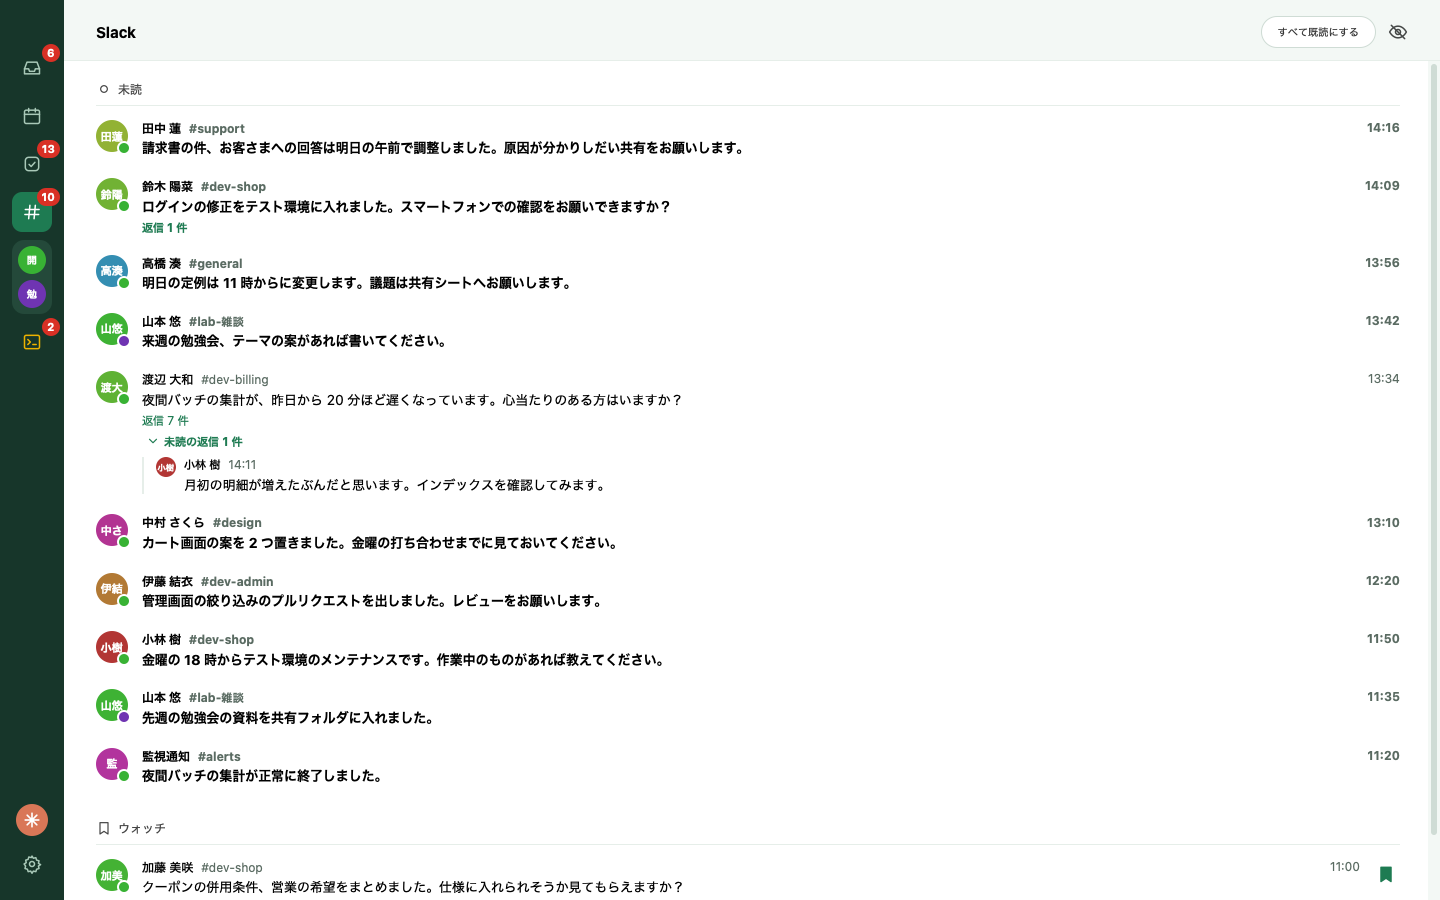
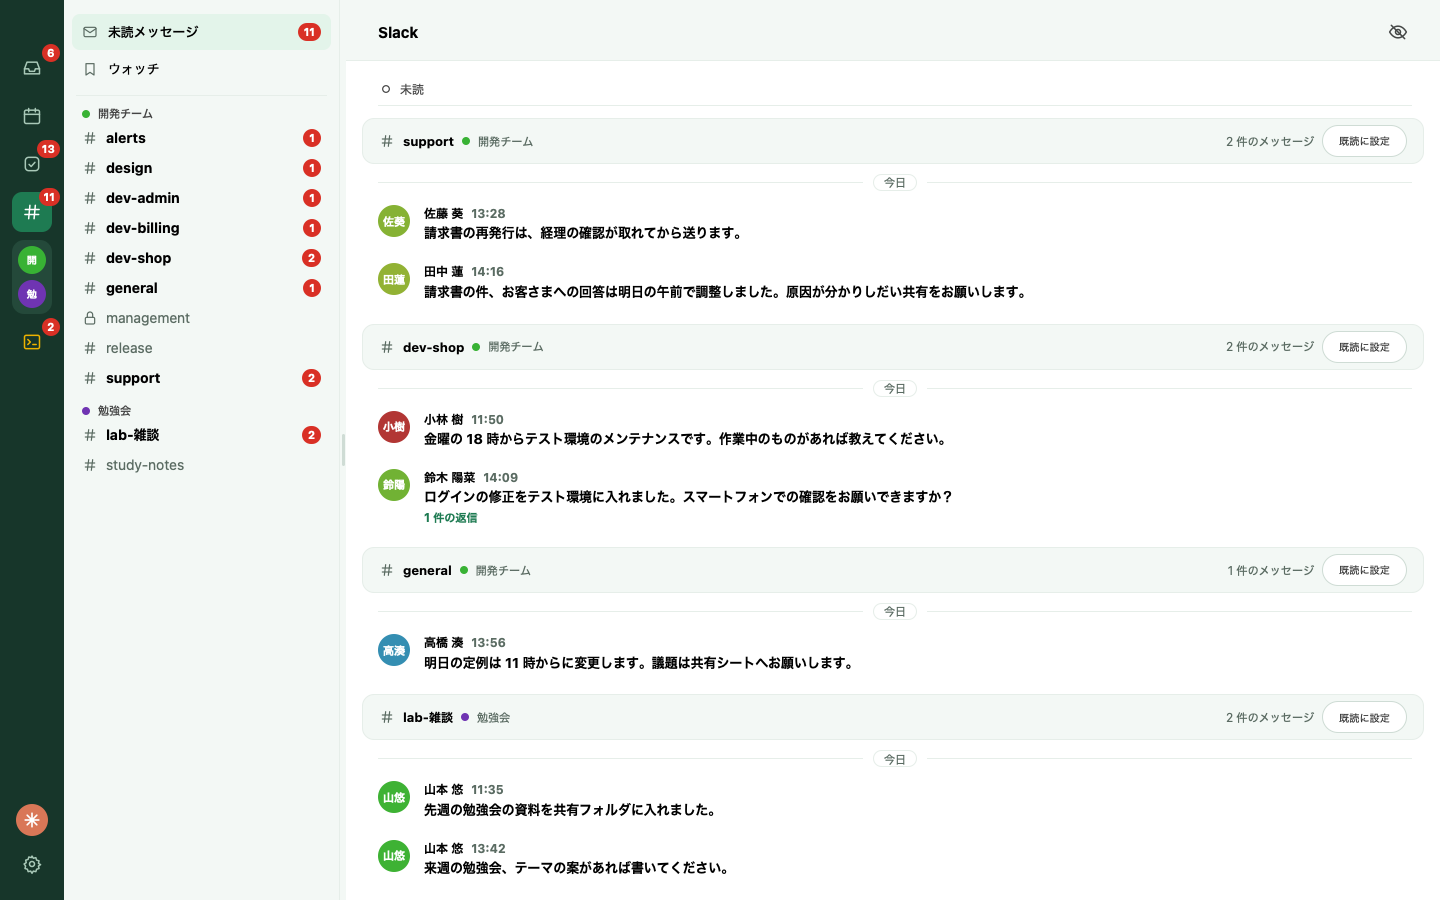
docs: README の Slack の写真と説明を、サイドメニューの画面に撮り直す

diff --git a/.claude/skills/readme-product/shots/readme-shots.e2e.ts b/.claude/skills/readme-product/shots/readme-shots.e2e.ts
@@ -4,6 +4,8 @@ import type { OrcaRow } from "../../ts/bindings/OrcaRow";
 import type { TaskItem } from "../../ts/bindings/TaskItem";
 import type { HandoffSummary } from "../../ts/bindings/HandoffSummary";
 import type { OrcaWorktree } from "../../ts/bindings/OrcaWorktree";
+import type { SideChannel } from "../../ts/bindings/SideChannel";
+import type { SideWorkspace } from "../../ts/bindings/SideWorkspace";
 import type { ThreadDetail } from "../../ts/bindings/ThreadDetail";
 import type { ThreadItem } from "../../ts/bindings/ThreadItem";
 import type { TimelineMessage } from "../../ts/bindings/TimelineMessage";
@@ -362,6 +364,7 @@ const rootTs = tsAgo(46, 1);
 function feed() {
   const unread: TimelineMessage[] = [
     timelineMessage(tsAgo(4, 2), "田中 蓮", "support", "請求書の件、お客さまへの回答は明日の午前で調整しました。原因が分かりしだい共有をお願いします。", { ...inWs(wsA, "C1"), unread: true }),
+    timelineMessage(tsAgo(52, 19), "佐藤 葵", "support", "請求書の再発行は、経理の確認が取れてから送ります。", { ...inWs(wsA, "C1"), unread: true }),
     timelineMessage(tsAgo(11, 3), "鈴木 陽菜", "dev-shop", "ログインの修正をテスト環境に入れました。スマートフォンでの確認をお願いできますか？", { ...inWs(wsA, "C2"), unread: true, replyCount: 1 }),
     timelineMessage(tsAgo(24, 4), "高橋 湊", "general", "明日の定例は 11 時からに変更します。議題は共有シートへお願いします。", { ...inWs(wsA, "C3"), unread: true }),
     timelineMessage(tsAgo(38, 5), "山本 悠", "lab-雑談", "来週の勉強会、テーマの案があれば書いてください。", { ...inWs(wsB, "D1"), unread: true }),
@@ -379,7 +382,29 @@ function feed() {
   const watched: TimelineMessage[] = [
     watchedMessage(tsAgo(200, 10), "加藤 美咲", "dev-shop", "クーポンの併用条件、営業の希望をまとめました。仕様に入れられそうか見てもらえますか？", 2, { ...inWs(wsA, "C2"), replyCount: 6 }),
   ];
-  return timeline(unread, { watched });
+  return timeline(unread, { watched, side: side() });
+}
+// The side menu (S-19): the joined channels of each workspace by name, with the unread number of each channel.
+function side(): SideWorkspace[] {
+  const ch = (id: string, name: string, extra: Partial<SideChannel> = {}): SideChannel => ({ id, name, private: false, unread: 0, ...extra });
+  return [
+    {
+      teamId: wsA.teamId,
+      team: wsA.team,
+      channels: [
+        ch("C7", "alerts", { unread: 1 }),
+        ch("C5", "design", { unread: 1 }),
+        ch("C6", "dev-admin", { unread: 1 }),
+        ch("C4", "dev-billing", { unread: 1 }),
+        ch("C2", "dev-shop", { unread: 2 }),
+        ch("C3", "general", { unread: 1 }),
+        ch("C8", "management", { private: true }),
+        ch("C9", "release"),
+        ch("C1", "support", { unread: 2 }),
+      ],
+    },
+    { teamId: wsB.teamId, team: wsB.team, channels: [ch("D1", "lab-雑談", { unread: 2 }), ch("D2", "study-notes")] },
+  ];
 }
 const slackDetail = () => ({
   ...slackThread([
@@ -491,6 +516,7 @@ describe("readme shots", () => {
     await $("#nav-slack").click();
     await expect($("#slack-list")).toBeDisplayed();
     await waitForCount("#slack-feed .feed-row", 11);
+    await waitForCount("#slack-side .slack-side-btn", 11);
     await shot("slack");
   });
 });
